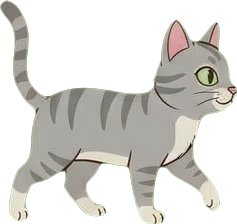
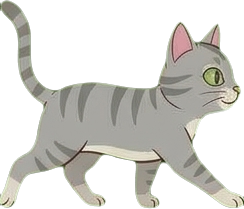
library: cat con ciclo de andar de 8 dibujos (walk1-8, sneak1-4, tail1-4); test_cat_video usa el ciclo nuevo
Sustituye walk1-4 (casi idénticos, el gato patinaba).

Claude-Session: https://claude.ai/code/session_01NybaBEFh1Bna1kCPx5qaoh

Changed region(s): [[0.0, 0.0861, 1.0, 1.0], [0.0591, 0.0287, 0.0886, 0.0861], [0.0, 0.0, 0.0295, 0.0574]]

diff --git a/factory/test_cat_video.py b/factory/test_cat_video.py
@@ -9,18 +9,19 @@ F = os.path.dirname(os.path.abspath(__file__)); sys.path.insert(0, F)
 import library as LIB
 import brand
 
-W, H, FPS, DUR = 1080, 1920, 30, 12.6
+W, H, FPS = 1080, 1920, 30
 GROUND_Y = 1420
 K = 2.2                                   # escala sobre la hoja (los sprites miden ~240 px): ampliar más los vuelve blandos
 FONT = os.path.join(F, "mascot", "v4", "fonts", "LondrinaSolid-Regular.ttf")
 INK = (58, 36, 30)
-WALK_FPS = 6
-STRIDE = LIB.stride("cat", "walk", K)
-SPEED = STRIDE * WALK_FPS / 4             # px/s: los pies no patinan
-X0, XC = -250, 540
+WALK_FPS = 6                              # ciclo de 8 dibujos (walk1..walk8): un ciclo = dos pasos
+# un ciclo desplaza el cuerpo ~1,56 veces el ancho del dibujo de contacto (pie que se apoya: de delante a atrás en ~60 % del ciclo)
+SPEED = 1.56 * LIB.get("cat", "walk1").width * K * WALK_FPS / 8      # px/s: los pies no patinan
+X0, XC = -900, 540
 T_STOP = (XC - X0) / SPEED                # llega al centro
-T_CURIOUS, T_ALERT, T_NIGHT, T_RUN = 2.6, 4.4, 6.2, 9.8
+T_CURIOUS, T_ALERT, T_NIGHT, T_RUN = T_STOP + 0.9, T_STOP + 2.7, T_STOP + 4.5, T_STOP + 8.1
 RUN_SPEED = 950
+DUR = T_RUN + 2.8
 
 def lerp(a, b, k): return a + (b - a) * k
 def clamp(x): return max(0.0, min(1.0, x))
